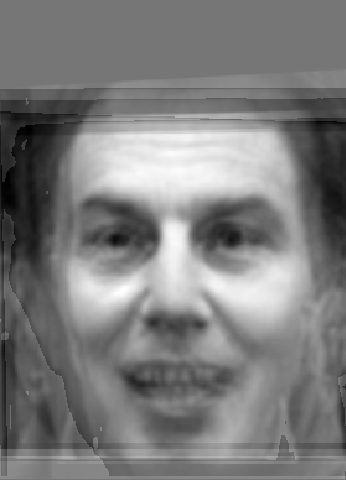
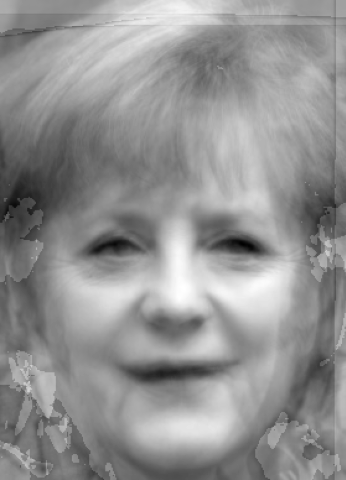
replaced tony blair with angela merkel (CC licenses) in demo 3

diff --git a/demos/demo_3_averaging/run_demo.py b/demos/demo_3_averaging/run_demo.py
@@ -18,16 +18,16 @@ def slim_fig(ax):
 
 
 # ----------------------------------------------------------------------
-# Align all faces of Tony Blair
+# Align all faces of Angela Merkel
 
 # Path for faces directory
-blair_folder = "faces-of-tony-blair"
+merkel_folder = "faces-of-merkel"
 my_project_path = os.path.dirname(os.path.abspath(__file__))
-my_faces_path = my_project_path + os.path.sep + blair_folder + os.path.sep
+my_faces_path = my_project_path + os.path.sep + merkel_folder + os.path.sep
 
 # Analyze all image files whose filenames have these properties ...
-file_prefix = "blair"
-file_postfix = "png"
+file_prefix = "merkel"
+file_postfix = "jpg"
 
 # Estimate landmarks.
 af.get_landmarks(my_faces_path, file_prefix, file_postfix, start_fresh=True)
@@ -66,7 +66,7 @@ im_montage = montage(original_images, rescale_intensity=True,
                      grid_shape=(2, 5))
 ax.imshow(im_montage, cmap=plt.cm.gray, interpolation='nearest')
 slim_fig(ax)
-plt.savefig('A_the_many_faces_of_blair.png', bbox_inches = 'tight', pad_inches = 0)
+plt.savefig('A_the_many_faces_of_merkel.png', bbox_inches = 'tight', pad_inches = 0)
 
 fig, ax = plt.subplots(subplot_kw={'aspect': 'equal'})
 ax.imshow(simple_average, cmap=plt.cm.gray)
@@ -77,7 +77,7 @@ fig, ax = plt.subplots(subplot_kw={'aspect': 'equal'})
 im_montage = montage(warped_to_mean, rescale_intensity=True, grid_shape=(2, 5))
 ax.imshow(im_montage, cmap=plt.cm.gray, interpolation='nearest')
 slim_fig(ax)
-plt.savefig('C_the_many_warped_faces_of_blair.png', bbox_inches = 'tight', pad_inches = 0)
+plt.savefig('C_the_many_warped_faces_of_merkel.png', bbox_inches = 'tight', pad_inches = 0)
 
 fig, ax = plt.subplots(subplot_kw={'aspect': 'equal'})
 ax.imshow(enhanced_average, cmap=plt.cm.gray)

diff --git a/demos/demo_3_averaging/make_figures.py b/demos/demo_3_averaging/make_figures.py
@@ -4,8 +4,8 @@ from PIL import Image as PilImage
 from skimage.util import montage
 import matplotlib.pyplot as plt
 
-fnames = [["A_the_many_faces_of_blair.png", "B_simple_average.png"],
-          ["C_the_many_warped_faces_of_blair.png", "D_enhanced_average.png"]]
+fnames = [["A_the_many_faces_of_merkel.png", "B_simple_average.png"],
+          ["C_the_many_warped_faces_of_merkel.png", "D_enhanced_average.png"]]
 
 imgs = []
 for r in range(2):

diff --git a/demos/demo_3_averaging/faces-of-merkel/LICENSES.md b/demos/demo_3_averaging/faces-of-merkel/LICENSES.md
@@ -1,0 +1,19 @@
+merkel-1.jpg, by [indeedous](https://www.flickr.com/photos/92843949@N08), CC BY 2.0
+
+merkel-2.jpg, by [franz88](https://www.flickr.com/photos/29314071@N00), CC BY-NC-SA 2.0
+
+merkel-3.jpg, by [Statsministerens kontor](https://www.flickr.com/photos/30450981@N06), CC BY-NC 2.0
+
+merkel-4.jpg, by [World Economic Forum](https://www.flickr.com/photos/15237218@N00),  CC BY-NC-SA 2.0
+
+merkel-5.jpg, by [Hardo](https://www.flickr.com/photos/44497870@N00),  CC BY-SA 2.0
+
+merkel-6.jpg, by [International Livestock Research Institute](https://www.flickr.com/photos/7155605@N03),  CC BY-NC-SA 2.0
+
+merkel-7.jpg, by [dullhunk](https://www.flickr.com/photos/14829735@N00), CC BY-SA 2.0
+
+merkel-8.jpg, by [More pictures and videos: connect@epp.eu](https://www.flickr.com/photos/45198836@N04), CC BY 2.0
+
+merkel-9.jpg, by [Πρωθυπουργός της Ελλάδας](https://www.flickr.com/photos/44926920@N06), CC BY-SA 2.0
+
+merkel-10.jpg, by [EU2017EE](https://www.flickr.com/photos/145047505@N06), CC BY 2.0
